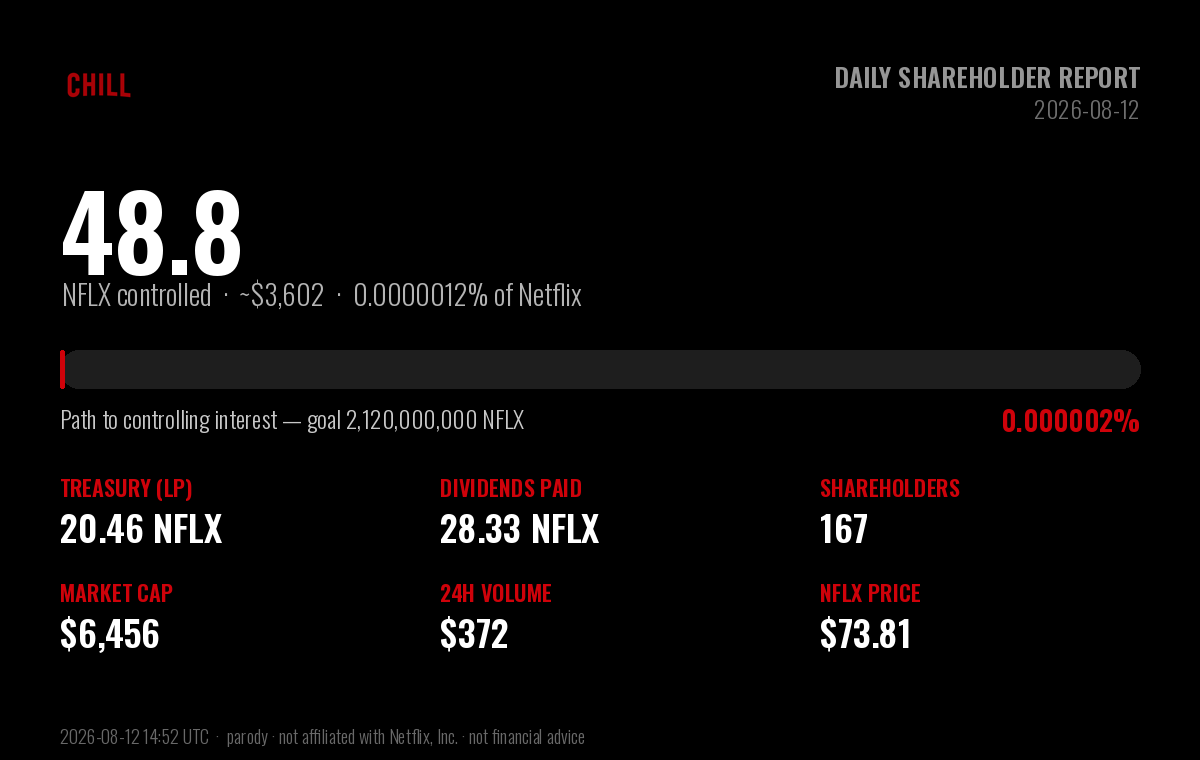
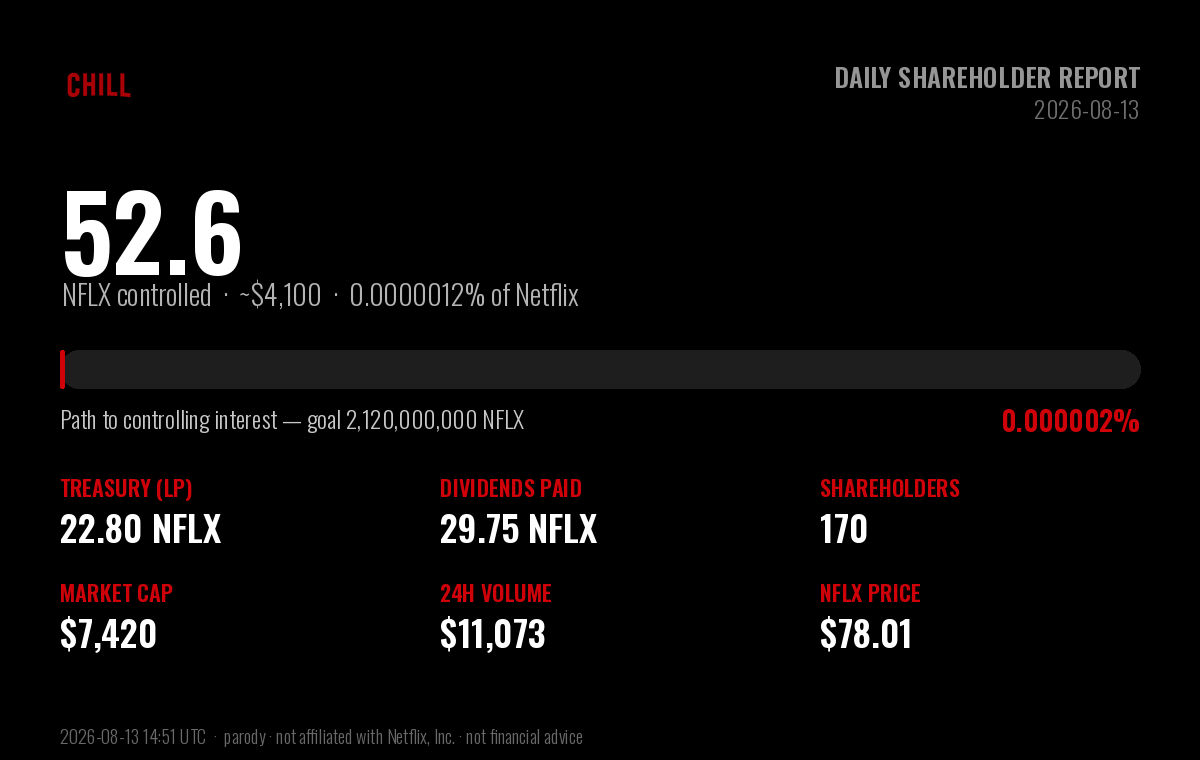
chore: daily $CHILL shareholder report (2026-08-13)

diff --git a/daily-holder-report/README.md b/daily-holder-report/README.md
@@ -1,6 +1,6 @@
 # $CHILL — Daily Shareholder Report
 
-### Netflix and Chill · Report to Shareholders · 2026-08-12
+### Netflix and Chill · Report to Shareholders · 2026-08-13
 
 > **Corporate objective:** acquire a controlling interest in Netflix (NFLX).
 > Netflix has **4,220,000,000** shares outstanding; a majority
@@ -13,53 +13,53 @@
 
 | Metric | Value |
 |---|---|
-| **NFLX under $CHILL control** | **48.80 NFLX** (~$3,602) |
-| Stake in Netflix | 0.000001156% of shares outstanding |
-| Progress to controlling interest | 0.0000023% of 2,120,000,000 |
-| Shares remaining to majority | 2,119,999,951 NFLX |
+| **NFLX under $CHILL control** | **52.55 NFLX** (~$4,100) |
+| Stake in Netflix | 0.000001245% of shares outstanding |
+| Progress to controlling interest | 0.0000025% of 2,120,000,000 |
+| Shares remaining to majority | 2,119,999,947 NFLX |
 
 ## Balance sheet — NFLX holdings
 
 | Holding | NFLX | USD |
 |---|---|---|
-| Treasury (protocol-owned liquidity) | 20.46 | $1,510 |
-| Dividends distributed to shareholders | 28.33 | $2,091 |
-| **Total NFLX controlled** | **48.80** | **$3,602** |
+| Treasury (protocol-owned liquidity) | 22.80 | $1,779 |
+| Dividends distributed to shareholders | 29.75 | $2,321 |
+| **Total NFLX controlled** | **52.55** | **$4,100** |
 
 ## Last 24 hours
 
 | Metric | Value |
 |---|---|
-| Trading volume | 5.04 NFLX (~$372) |
-| Net NFLX accumulated | -5.04 NFLX |
-| Dividends generated | 0.0504 NFLX |
-| Transactions | 7 (0 buys / 7 sells) |
-| $CHILL price change | -19.8% |
+| Trading volume | 141.94 NFLX (~$11,073) |
+| Net NFLX accumulated | 2.34 NFLX |
+| Dividends generated | 1.4194 NFLX |
+| Transactions | 139 (77 buys / 62 sells) |
+| $CHILL price change | -47.9% |
 
 ## Shareholder & market data
 
 | Metric | Value |
 |---|---|
-| Shareholders of record | 167 |
-| Lifetime unique participants | 778 |
+| Shareholders of record | 170 |
+| Lifetime unique participants | 819 |
 | Shares outstanding ($CHILL) | 1,000,000,000 |
-| Market capitalization | $6,456 |
-| $CHILL price | $0.00000646 |
-| NFLX price | $73.81 |
-| Lifetime volume | 2,833.32 NFLX (~$209,127) |
-| Lifetime transactions | 4,009 (2,284 buys / 1,725 sells) |
-| Days since IPO (launch) | 23 |
+| Market capitalization | $7,420 |
+| $CHILL price | $0.00000742 |
+| NFLX price | $78.01 |
+| Lifetime volume | 2,975.26 NFLX (~$232,106) |
+| Lifetime transactions | 4,148 (2,361 buys / 1,787 sells) |
+| Days since IPO (launch) | 24 |
 
 ## Per-share metrics
 
 | Metric | Value |
 |---|---|
-| NFLX backing per 1M $CHILL | 0.048797 NFLX |
-| Dividends per 1M $CHILL | 0.028333 NFLX |
+| NFLX backing per 1M $CHILL | 0.052555 NFLX |
+| Dividends per 1M $CHILL | 0.029753 NFLX |
 
 ---
 
-*Report generated 2026-08-12 14:52 UTC · block 34,614,638 · data via the Sentry-Robinhood
+*Report generated 2026-08-13 14:51 UTC · block 35,476,333 · data via the Sentry-Robinhood
 subgraph and Robinhood Chain explorer.*
 
 **Disclaimer:** $CHILL is an independent, community-driven **parody** token. It is
